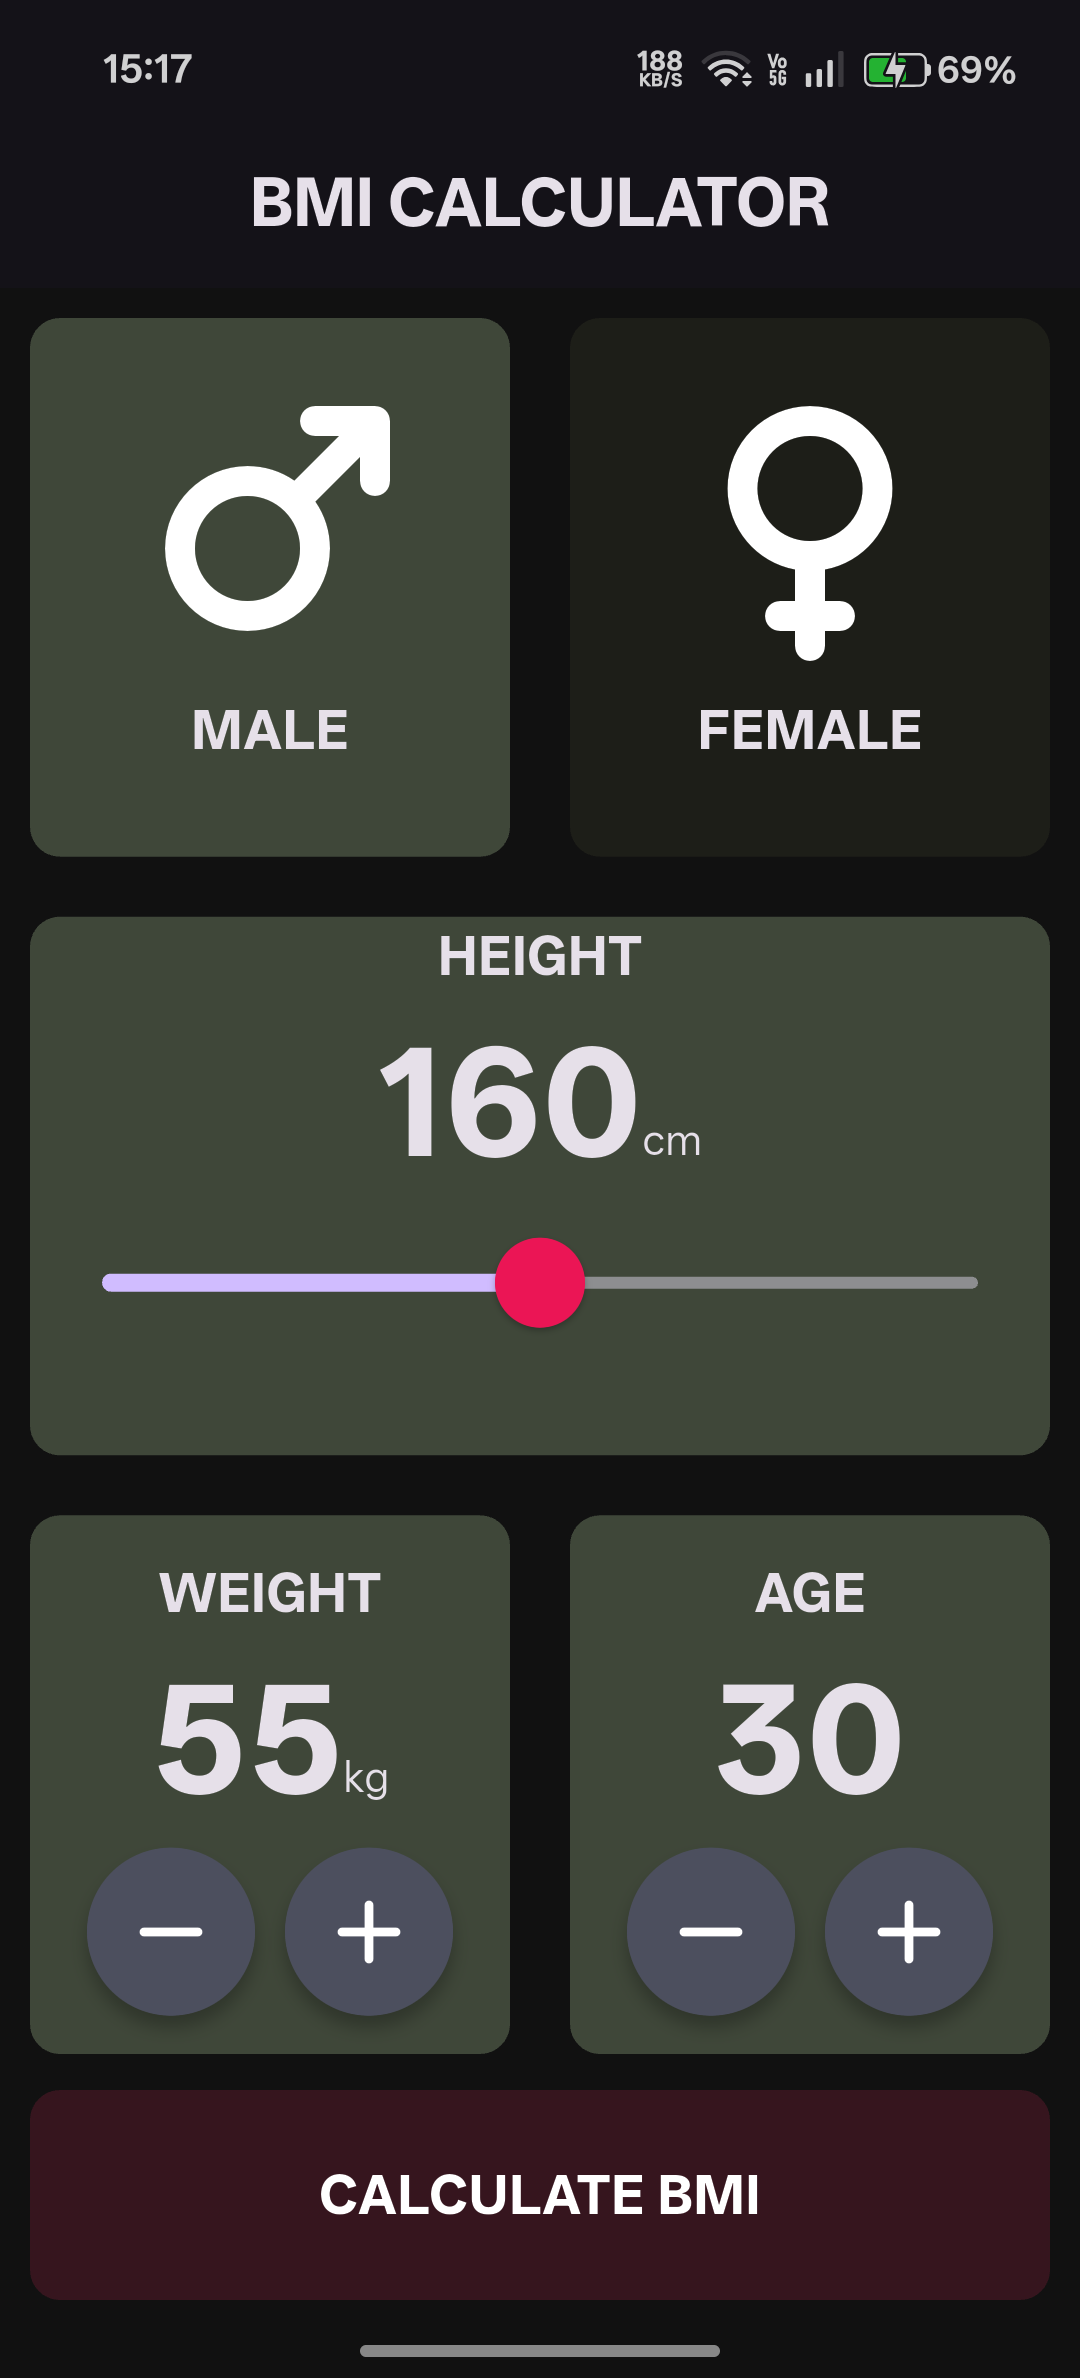
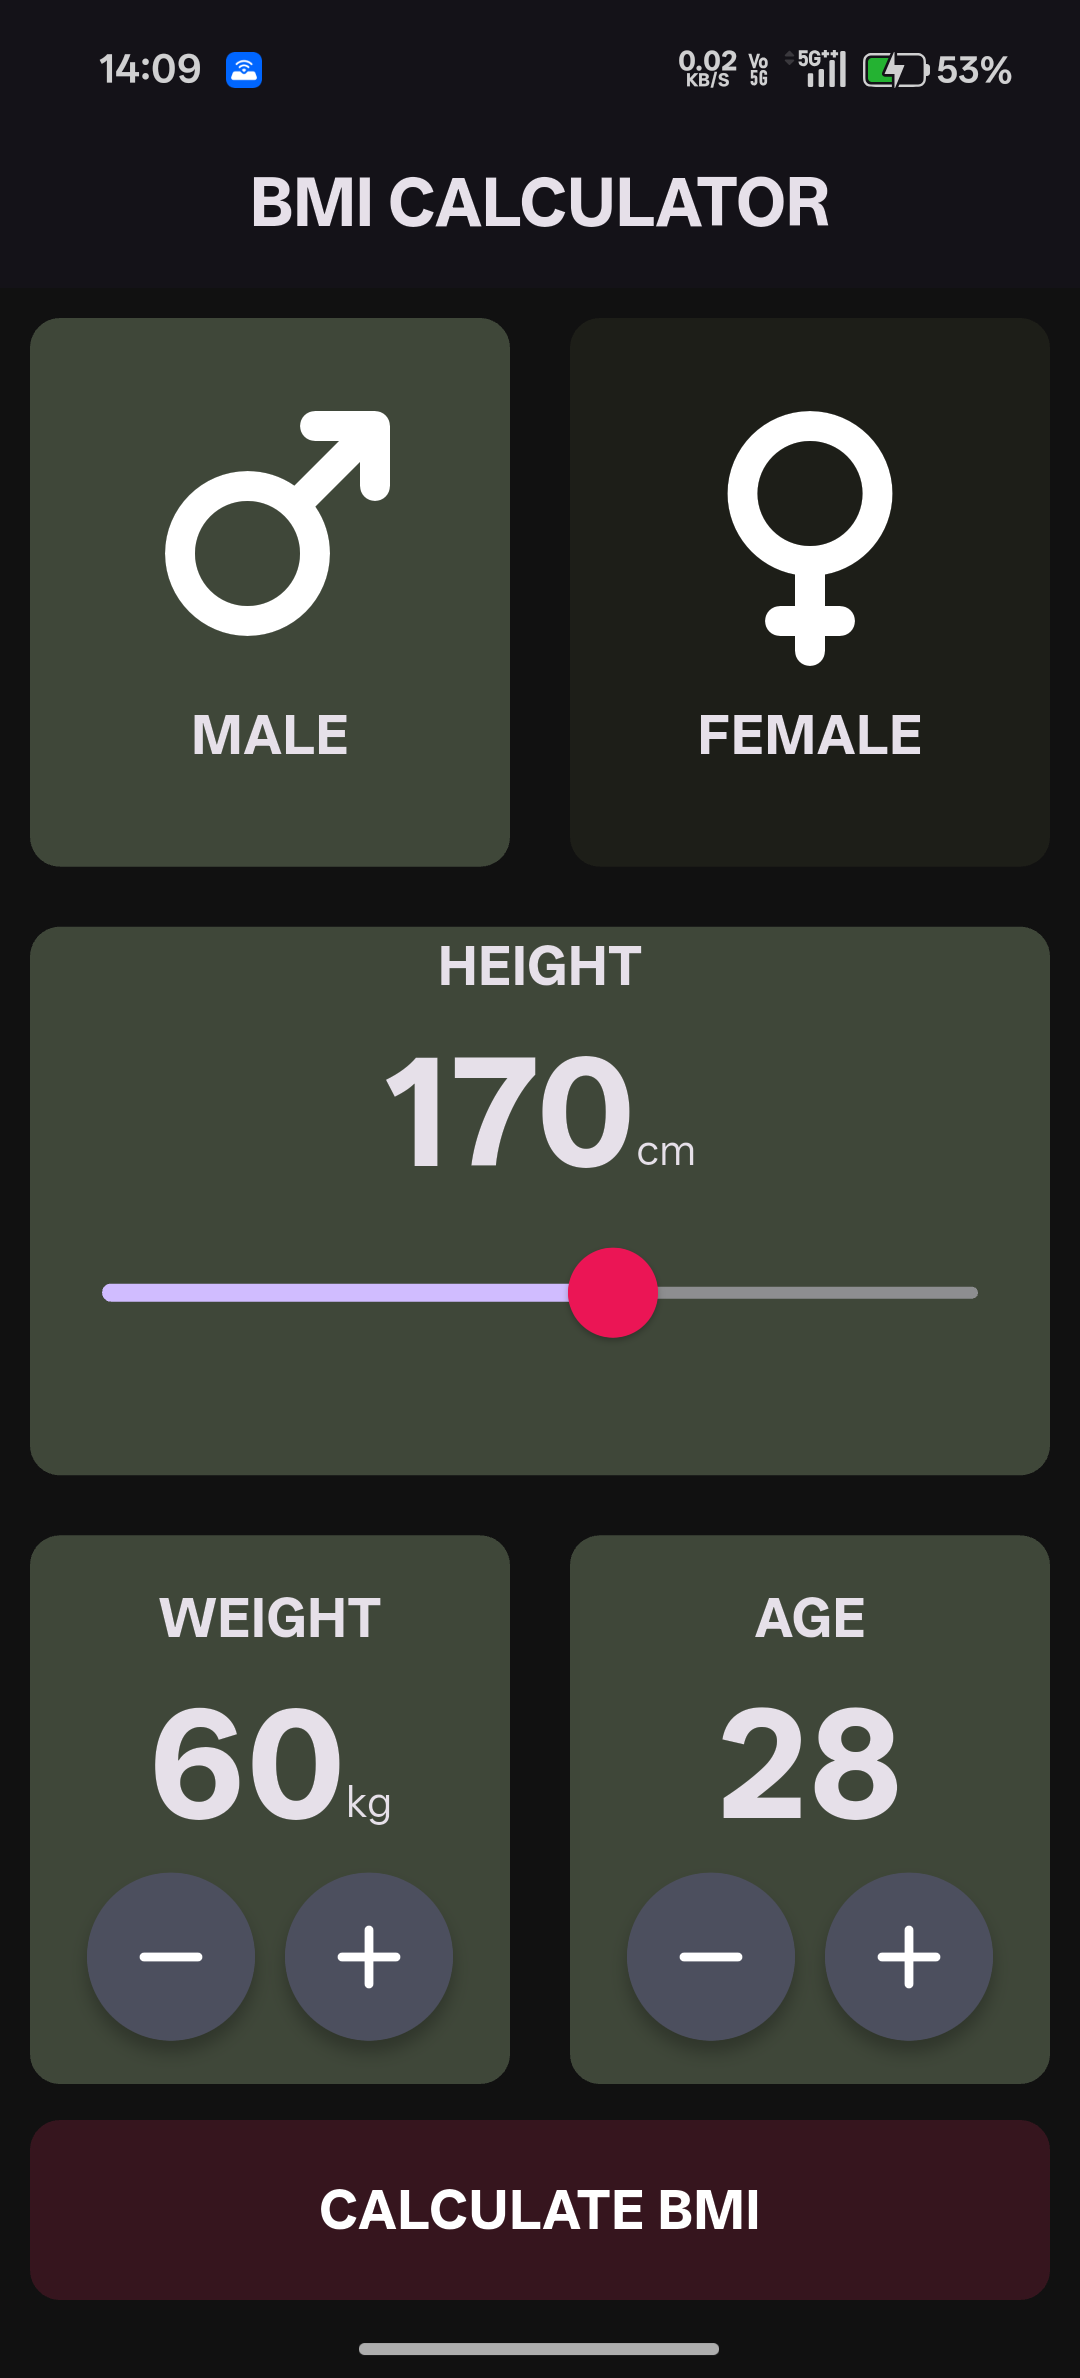
improved control and result logic

diff --git a/lib/calculate_brain.dart b/lib/calculate_brain.dart
@@ -28,10 +28,10 @@ class CalculateBrain {
     return _bodyFat.toStringAsFixed(1);
   }
 
-  String getResultMale() {
+  String getResult() {
     if (_bmi >= 35.0) {
       return 'Extremely Obese';
-    }else if (_bmi >= 30.0) {
+    } else if (_bmi >= 30.0) {
       return 'Obesity';
     } else if (_bmi >= 25) {
       return 'OverWeight';
@@ -39,26 +39,6 @@ class CalculateBrain {
       return 'Normal';
     } else {
       return 'Underweight';
-    }
-  }
-
-  String getResultFemale() {
-    if (_bodyFat >= 38) {
-      return 'Obesity';
-    } else if (_bodyFat >= 32) {
-      return 'OverWeight';
-    } else if (_bodyFat >= 25) {
-      return 'Normal';
-    } else {
-      return 'Underweight';
-    }
-  }
-
-  String getResult() {
-    if (gender == 0) {
-      return getResultFemale();
-    } else {
-      return getResultMale();
     }
   }
 }

diff --git a/lib/components/round_icon_button.dart b/lib/components/round_icon_button.dart
@@ -21,7 +21,7 @@ class _RoundIconButtonState extends State<RoundIconButton> {
 
   void _startHold() {
     widget.onPressed?.call();
-    _holdTimer = Timer.periodic(const Duration(microseconds: 40000), (_) {
+    _holdTimer = Timer.periodic(const Duration(microseconds: 90000), (_) {
       widget.onPressed?.call();
     });
   }
@@ -33,7 +33,6 @@ class _RoundIconButtonState extends State<RoundIconButton> {
 
   @override
   void dispose() {
-    // TODO: implement dispose
     _holdTimer?.cancel();
     super.dispose();
   }
